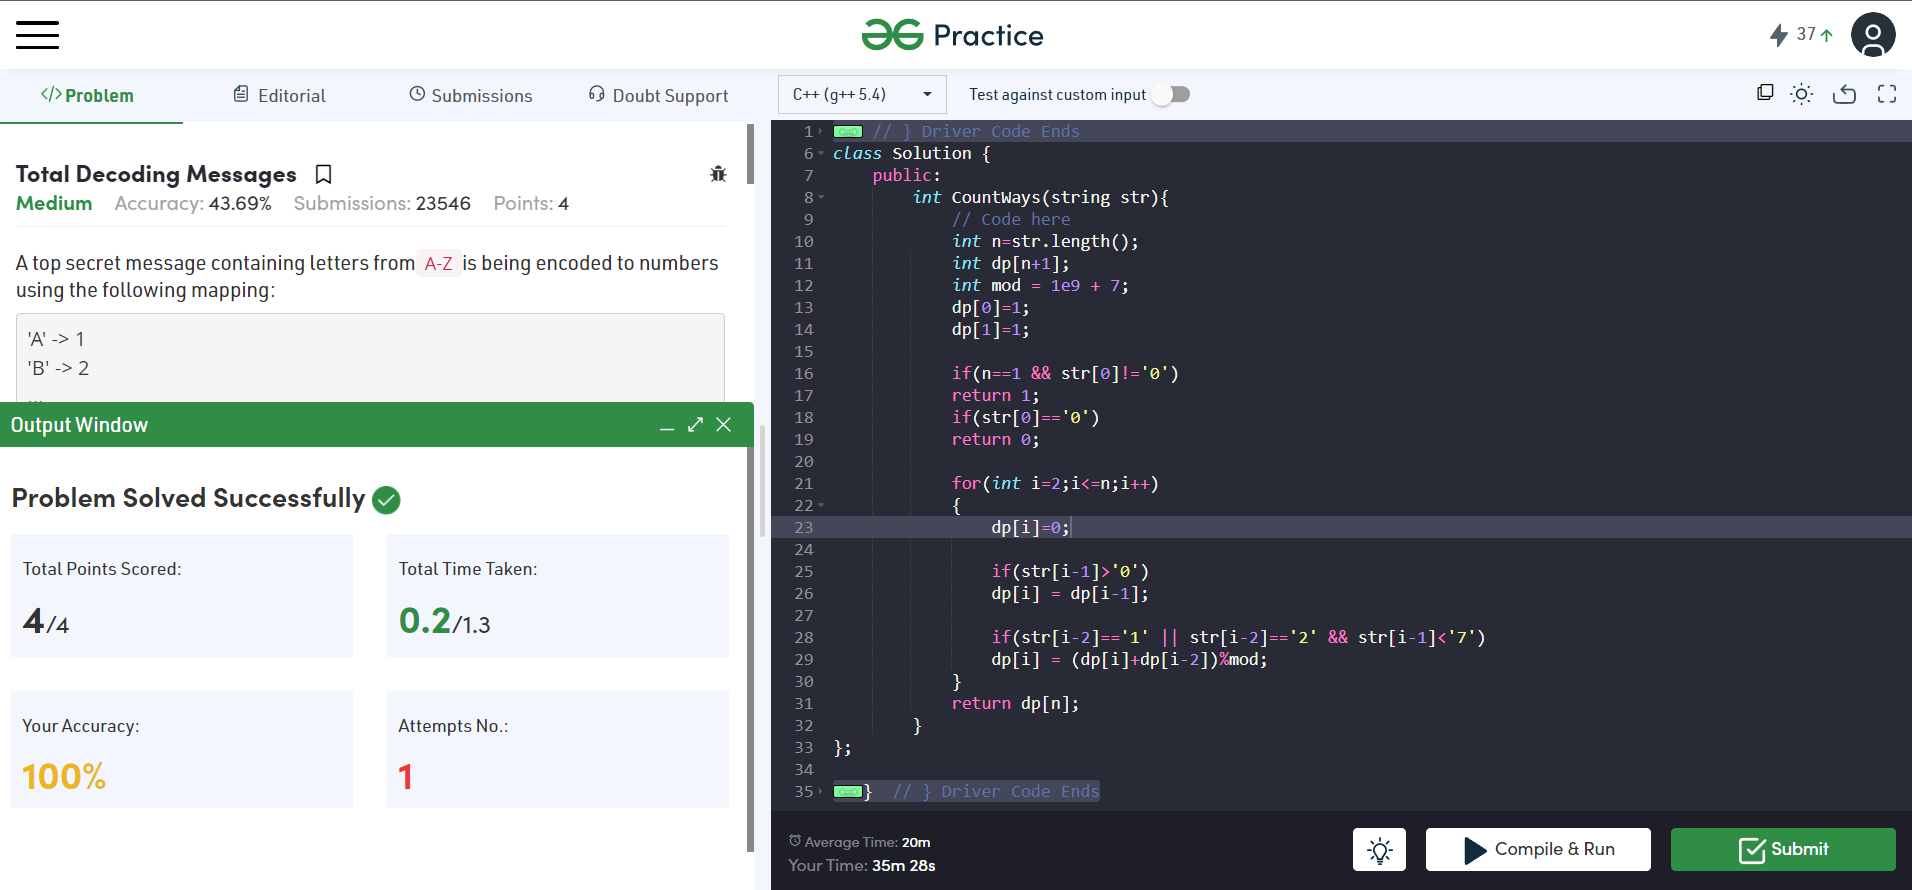
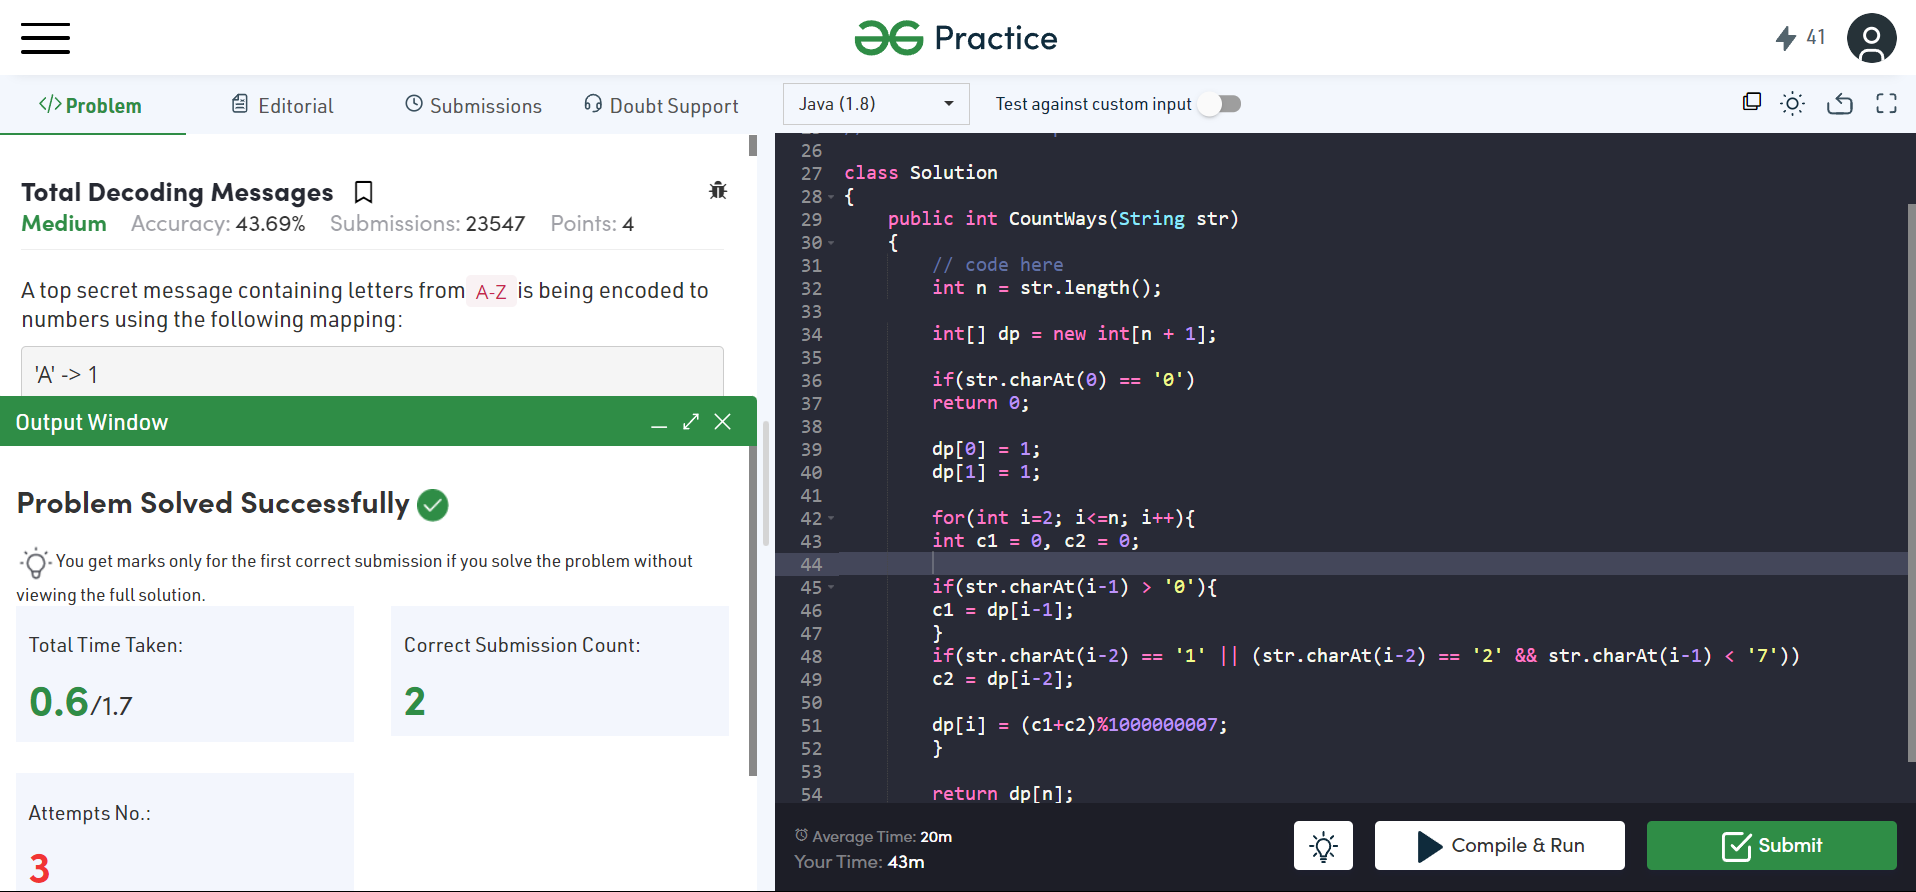
Total Decoding Messages done

diff --git a/1) Goldman Sachs/8) Total Decoding Messages/Solution.java b/1) Goldman Sachs/8) Total Decoding Messages/Solution.java
@@ -1,0 +1,30 @@
+class Solution
+{
+    public int CountWays(String str)
+    {
+        // code here
+        int n = str.length();
+
+        int[] dp = new int[n + 1];
+        
+        if(str.charAt(0) == '0')
+        return 0;
+        
+        dp[0] = 1;
+        dp[1] = 1;
+        
+        for(int i=2; i<=n; i++){
+        int c1 = 0, c2 = 0;
+        
+        if(str.charAt(i-1) > '0'){
+        c1 = dp[i-1];
+        }
+        if(str.charAt(i-2) == '1' || (str.charAt(i-2) == '2' && str.charAt(i-1) < '7'))
+        c2 = dp[i-2];
+        
+        dp[i] = (c1+c2)%1000000007;
+        }
+        
+        return dp[n];
+    }
+}
